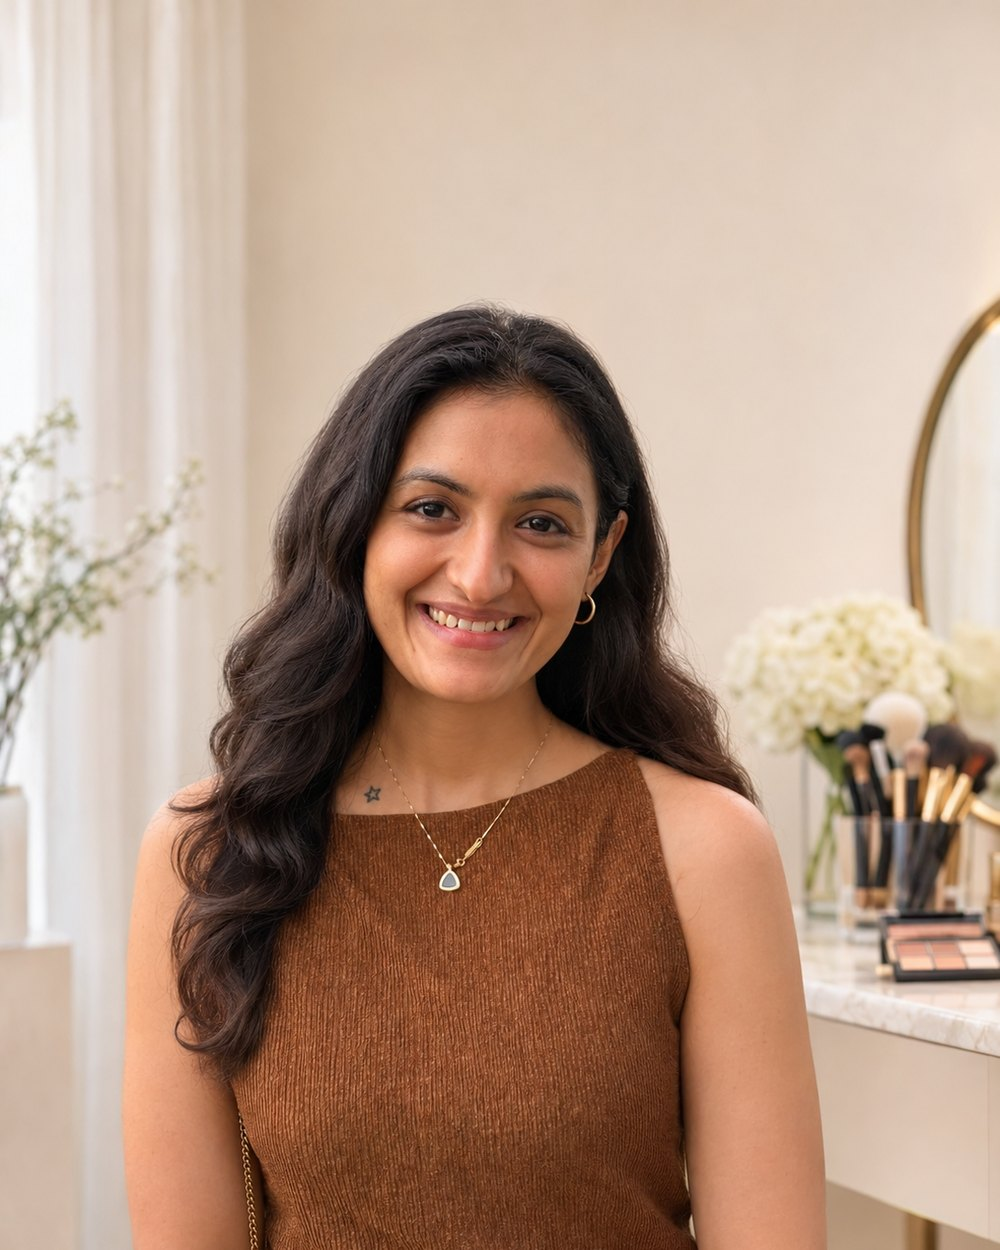
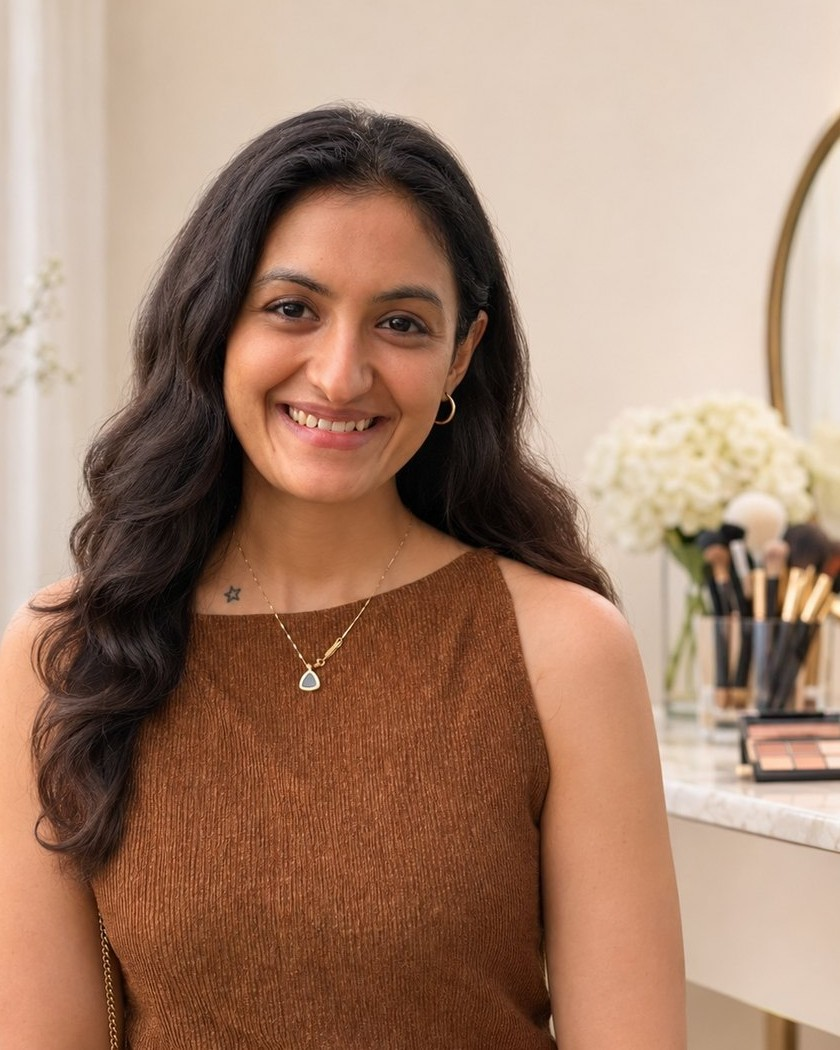
Apply reviewer feedback: white hero button, tighter portrait crop, full-width About button, 'Services' heading, bigger pricing feature, direct contact in CTA band
Claude-Session: https://claude.ai/code/session_017q9V9TUkesaS754kNf9bzS

diff --git a/index.html b/index.html
@@ -52,20 +52,20 @@
     <p>Your Expert Beauty &amp; Makeup Artist</p>
     <div class="actions">
       <a class="btn btn--light" href="/book/">Book an Appointment</a>
-      <a class="btn btn--ghost" style="color:#fff;border-color:#fff" href="#services">Explore Our Services</a>
+      <a class="btn btn--light" href="#services">Explore Our Services</a>
     </div>
   </div>
 </section>
 
 <section id="about" class="section">
   <div class="wrap split">
-    <img class="portrait" src="/assets/khushali-studio.jpg" alt="Khushali, makeup, skincare and henna artist" loading="lazy" width="1000" height="1250">
+    <img class="portrait" src="/assets/khushali-studio.jpg" alt="Khushali, makeup, skincare and henna artist" loading="lazy" width="840" height="1050">
     <div>
       <p class="eyebrow">About</p>
       <h2>About Glam by Khushali</h2>
       <p>Glam by Khushali is a beauty studio dedicated to personalized luxury makeup, professional skincare, and beautiful henna artistry. Every service is tailored to enhance your natural features, so you leave feeling confident, radiant, and completely yourself.</p>
       <p>From timeless bridal looks to occasion-ready glam, each appointment begins with understanding your style, skin, and vision. Whether you are preparing for your wedding day or a special event, Glam by Khushali brings careful attention, artistry, and a polished finish to every detail.</p>
-      <a class="btn btn--ghost" href="/about/">Meet Khushali</a>
+      <a class="btn btn--ghost btn--block" href="/about/">Meet Khushali</a>
     </div>
   </div>
 </section>
@@ -73,7 +73,7 @@
 <section id="services" class="section section--tint">
   <div class="wrap center">
     <p class="eyebrow">Services</p>
-    <h2>Our Services</h2>
+    <h2>Services</h2>
     <p class="lead">Tap a service to see what's included, how it works and examples of the work.</p>
     <div class="cards" style="text-align:left">
       <a class="card" href="/services/makeup/">
@@ -104,22 +104,28 @@
   </div>
 </section>
 
-<section class="section">
+<section class="section price-feature">
   <div class="wrap center">
-    <p class="eyebrow">Simple, transparent pricing</p>
-    <h2>One standard rate: $250 per hour</h2>
-    <a class="btn" href="/pricing/">See Services &amp; Pricing</a>
+    <div class="price-card">
+      <p class="eyebrow">Simple, transparent pricing</p>
+      <p class="price-big"><span>$250</span> per hour</p>
+      <p class="price-sub">One standard rate for every service.</p>
+      <a class="btn" href="/pricing/">See Services &amp; Pricing</a>
+    </div>
   </div>
 </section>
 
 <section class="cta-band">
   <div class="wrap">
     <h2>Ready to book your glam?</h2>
-    <p>Call, text or email, or pick a time online.</p>
+    <p class="cta-phone"><a href="tel:+17327075613">(732) 707-5613</a></p>
+    <p class="cta-email"><a href="mailto:contact@glambykhushali.com">contact@glambykhushali.com</a></p>
     <div class="actions">
-      <a class="btn btn--light" href="/book/">Book an Appointment</a>
-      <a class="btn btn--ghost" style="color:#fff;border-color:#fff" href="/pricing/">View Pricing</a>
+      <a class="btn btn--light" href="tel:+17327075613"><svg viewBox="0 0 24 24" fill="none" stroke="currentColor" stroke-width="1.8" stroke-linecap="round" stroke-linejoin="round" aria-hidden="true"><path d="M22 16.9v3a2 2 0 0 1-2.2 2 19.8 19.8 0 0 1-8.6-3.1 19.5 19.5 0 0 1-6-6A19.8 19.8 0 0 1 2.1 4.2 2 2 0 0 1 4.1 2h3a2 2 0 0 1 2 1.7c.1.9.4 1.8.7 2.7a2 2 0 0 1-.5 2.1L8 9.8a16 16 0 0 0 6 6l1.3-1.3a2 2 0 0 1 2.1-.4c.9.3 1.8.6 2.7.7a2 2 0 0 1 1.7 2z"/></svg>Call</a>
+      <a class="btn btn--light" href="sms:+17327075613"><svg viewBox="0 0 24 24" fill="none" stroke="currentColor" stroke-width="1.8" stroke-linecap="round" stroke-linejoin="round" aria-hidden="true"><path d="M21 15a2 2 0 0 1-2 2H7l-4 4V5a2 2 0 0 1 2-2h14a2 2 0 0 1 2 2z"/></svg>Text</a>
+      <a class="btn btn--light" href="mailto:contact@glambykhushali.com"><svg viewBox="0 0 24 24" fill="none" stroke="currentColor" stroke-width="1.8" stroke-linecap="round" stroke-linejoin="round" aria-hidden="true"><rect x="2" y="4" width="20" height="16" rx="2"/><path d="m22 7-10 6L2 7"/></svg>Email</a>
     </div>
+    <p class="cta-alt">Or <a href="/book/">book online</a></p>
   </div>
 </section>
 </main>

diff --git a/about/index.html b/about/index.html
@@ -47,7 +47,7 @@
 <main>
 <section class="section">
   <div class="wrap split split--top">
-    <img class="portrait" src="/assets/khushali-studio.jpg" alt="Khushali, makeup, skincare and henna artist" width="1000" height="1250">
+    <img class="portrait" src="/assets/khushali-studio.jpg" alt="Khushali, makeup, skincare and henna artist" width="840" height="1050">
     <div>
       <p class="eyebrow">About</p>
       <h1>Meet Khushali</h1>
@@ -60,11 +60,14 @@
 <section class="cta-band">
   <div class="wrap">
     <h2>Ready to book your glam?</h2>
-    <p>Call, text or email, or pick a time online.</p>
+    <p class="cta-phone"><a href="tel:+17327075613">(732) 707-5613</a></p>
+    <p class="cta-email"><a href="mailto:contact@glambykhushali.com">contact@glambykhushali.com</a></p>
     <div class="actions">
-      <a class="btn btn--light" href="/book/">Book an Appointment</a>
-      <a class="btn btn--ghost" style="color:#fff;border-color:#fff" href="/pricing/">View Pricing</a>
+      <a class="btn btn--light" href="tel:+17327075613"><svg viewBox="0 0 24 24" fill="none" stroke="currentColor" stroke-width="1.8" stroke-linecap="round" stroke-linejoin="round" aria-hidden="true"><path d="M22 16.9v3a2 2 0 0 1-2.2 2 19.8 19.8 0 0 1-8.6-3.1 19.5 19.5 0 0 1-6-6A19.8 19.8 0 0 1 2.1 4.2 2 2 0 0 1 4.1 2h3a2 2 0 0 1 2 1.7c.1.9.4 1.8.7 2.7a2 2 0 0 1-.5 2.1L8 9.8a16 16 0 0 0 6 6l1.3-1.3a2 2 0 0 1 2.1-.4c.9.3 1.8.6 2.7.7a2 2 0 0 1 1.7 2z"/></svg>Call</a>
+      <a class="btn btn--light" href="sms:+17327075613"><svg viewBox="0 0 24 24" fill="none" stroke="currentColor" stroke-width="1.8" stroke-linecap="round" stroke-linejoin="round" aria-hidden="true"><path d="M21 15a2 2 0 0 1-2 2H7l-4 4V5a2 2 0 0 1 2-2h14a2 2 0 0 1 2 2z"/></svg>Text</a>
+      <a class="btn btn--light" href="mailto:contact@glambykhushali.com"><svg viewBox="0 0 24 24" fill="none" stroke="currentColor" stroke-width="1.8" stroke-linecap="round" stroke-linejoin="round" aria-hidden="true"><rect x="2" y="4" width="20" height="16" rx="2"/><path d="m22 7-10 6L2 7"/></svg>Email</a>
     </div>
+    <p class="cta-alt">Or <a href="/book/">book online</a></p>
   </div>
 </section>
 </main>

diff --git a/pricing/index.html b/pricing/index.html
@@ -149,11 +149,14 @@
 <section class="cta-band">
   <div class="wrap">
     <h2>Ready to book your glam?</h2>
-    <p>Call, text or email, or pick a time online.</p>
+    <p class="cta-phone"><a href="tel:+17327075613">(732) 707-5613</a></p>
+    <p class="cta-email"><a href="mailto:contact@glambykhushali.com">contact@glambykhushali.com</a></p>
     <div class="actions">
-      <a class="btn btn--light" href="/book/">Book an Appointment</a>
-      <a class="btn btn--ghost" style="color:#fff;border-color:#fff" href="/pricing/">View Pricing</a>
+      <a class="btn btn--light" href="tel:+17327075613"><svg viewBox="0 0 24 24" fill="none" stroke="currentColor" stroke-width="1.8" stroke-linecap="round" stroke-linejoin="round" aria-hidden="true"><path d="M22 16.9v3a2 2 0 0 1-2.2 2 19.8 19.8 0 0 1-8.6-3.1 19.5 19.5 0 0 1-6-6A19.8 19.8 0 0 1 2.1 4.2 2 2 0 0 1 4.1 2h3a2 2 0 0 1 2 1.7c.1.9.4 1.8.7 2.7a2 2 0 0 1-.5 2.1L8 9.8a16 16 0 0 0 6 6l1.3-1.3a2 2 0 0 1 2.1-.4c.9.3 1.8.6 2.7.7a2 2 0 0 1 1.7 2z"/></svg>Call</a>
+      <a class="btn btn--light" href="sms:+17327075613"><svg viewBox="0 0 24 24" fill="none" stroke="currentColor" stroke-width="1.8" stroke-linecap="round" stroke-linejoin="round" aria-hidden="true"><path d="M21 15a2 2 0 0 1-2 2H7l-4 4V5a2 2 0 0 1 2-2h14a2 2 0 0 1 2 2z"/></svg>Text</a>
+      <a class="btn btn--light" href="mailto:contact@glambykhushali.com"><svg viewBox="0 0 24 24" fill="none" stroke="currentColor" stroke-width="1.8" stroke-linecap="round" stroke-linejoin="round" aria-hidden="true"><rect x="2" y="4" width="20" height="16" rx="2"/><path d="m22 7-10 6L2 7"/></svg>Email</a>
     </div>
+    <p class="cta-alt">Or <a href="/book/">book online</a></p>
   </div>
 </section>
 </main>

diff --git a/services/henna/index.html b/services/henna/index.html
@@ -105,11 +105,14 @@
 <section class="cta-band">
   <div class="wrap">
     <h2>Ready to book your glam?</h2>
-    <p>Call, text or email, or pick a time online.</p>
+    <p class="cta-phone"><a href="tel:+17327075613">(732) 707-5613</a></p>
+    <p class="cta-email"><a href="mailto:contact@glambykhushali.com">contact@glambykhushali.com</a></p>
     <div class="actions">
-      <a class="btn btn--light" href="/book/">Book an Appointment</a>
-      <a class="btn btn--ghost" style="color:#fff;border-color:#fff" href="/pricing/">View Pricing</a>
+      <a class="btn btn--light" href="tel:+17327075613"><svg viewBox="0 0 24 24" fill="none" stroke="currentColor" stroke-width="1.8" stroke-linecap="round" stroke-linejoin="round" aria-hidden="true"><path d="M22 16.9v3a2 2 0 0 1-2.2 2 19.8 19.8 0 0 1-8.6-3.1 19.5 19.5 0 0 1-6-6A19.8 19.8 0 0 1 2.1 4.2 2 2 0 0 1 4.1 2h3a2 2 0 0 1 2 1.7c.1.9.4 1.8.7 2.7a2 2 0 0 1-.5 2.1L8 9.8a16 16 0 0 0 6 6l1.3-1.3a2 2 0 0 1 2.1-.4c.9.3 1.8.6 2.7.7a2 2 0 0 1 1.7 2z"/></svg>Call</a>
+      <a class="btn btn--light" href="sms:+17327075613"><svg viewBox="0 0 24 24" fill="none" stroke="currentColor" stroke-width="1.8" stroke-linecap="round" stroke-linejoin="round" aria-hidden="true"><path d="M21 15a2 2 0 0 1-2 2H7l-4 4V5a2 2 0 0 1 2-2h14a2 2 0 0 1 2 2z"/></svg>Text</a>
+      <a class="btn btn--light" href="mailto:contact@glambykhushali.com"><svg viewBox="0 0 24 24" fill="none" stroke="currentColor" stroke-width="1.8" stroke-linecap="round" stroke-linejoin="round" aria-hidden="true"><rect x="2" y="4" width="20" height="16" rx="2"/><path d="m22 7-10 6L2 7"/></svg>Email</a>
     </div>
+    <p class="cta-alt">Or <a href="/book/">book online</a></p>
   </div>
 </section>
 </main>

diff --git a/services/makeup/index.html b/services/makeup/index.html
@@ -105,11 +105,14 @@
 <section class="cta-band">
   <div class="wrap">
     <h2>Ready to book your glam?</h2>
-    <p>Call, text or email, or pick a time online.</p>
+    <p class="cta-phone"><a href="tel:+17327075613">(732) 707-5613</a></p>
+    <p class="cta-email"><a href="mailto:contact@glambykhushali.com">contact@glambykhushali.com</a></p>
     <div class="actions">
-      <a class="btn btn--light" href="/book/">Book an Appointment</a>
-      <a class="btn btn--ghost" style="color:#fff;border-color:#fff" href="/pricing/">View Pricing</a>
+      <a class="btn btn--light" href="tel:+17327075613"><svg viewBox="0 0 24 24" fill="none" stroke="currentColor" stroke-width="1.8" stroke-linecap="round" stroke-linejoin="round" aria-hidden="true"><path d="M22 16.9v3a2 2 0 0 1-2.2 2 19.8 19.8 0 0 1-8.6-3.1 19.5 19.5 0 0 1-6-6A19.8 19.8 0 0 1 2.1 4.2 2 2 0 0 1 4.1 2h3a2 2 0 0 1 2 1.7c.1.9.4 1.8.7 2.7a2 2 0 0 1-.5 2.1L8 9.8a16 16 0 0 0 6 6l1.3-1.3a2 2 0 0 1 2.1-.4c.9.3 1.8.6 2.7.7a2 2 0 0 1 1.7 2z"/></svg>Call</a>
+      <a class="btn btn--light" href="sms:+17327075613"><svg viewBox="0 0 24 24" fill="none" stroke="currentColor" stroke-width="1.8" stroke-linecap="round" stroke-linejoin="round" aria-hidden="true"><path d="M21 15a2 2 0 0 1-2 2H7l-4 4V5a2 2 0 0 1 2-2h14a2 2 0 0 1 2 2z"/></svg>Text</a>
+      <a class="btn btn--light" href="mailto:contact@glambykhushali.com"><svg viewBox="0 0 24 24" fill="none" stroke="currentColor" stroke-width="1.8" stroke-linecap="round" stroke-linejoin="round" aria-hidden="true"><rect x="2" y="4" width="20" height="16" rx="2"/><path d="m22 7-10 6L2 7"/></svg>Email</a>
     </div>
+    <p class="cta-alt">Or <a href="/book/">book online</a></p>
   </div>
 </section>
 </main>

diff --git a/services/skincare/index.html b/services/skincare/index.html
@@ -105,11 +105,14 @@
 <section class="cta-band">
   <div class="wrap">
     <h2>Ready to book your glam?</h2>
-    <p>Call, text or email, or pick a time online.</p>
+    <p class="cta-phone"><a href="tel:+17327075613">(732) 707-5613</a></p>
+    <p class="cta-email"><a href="mailto:contact@glambykhushali.com">contact@glambykhushali.com</a></p>
     <div class="actions">
-      <a class="btn btn--light" href="/book/">Book an Appointment</a>
-      <a class="btn btn--ghost" style="color:#fff;border-color:#fff" href="/pricing/">View Pricing</a>
+      <a class="btn btn--light" href="tel:+17327075613"><svg viewBox="0 0 24 24" fill="none" stroke="currentColor" stroke-width="1.8" stroke-linecap="round" stroke-linejoin="round" aria-hidden="true"><path d="M22 16.9v3a2 2 0 0 1-2.2 2 19.8 19.8 0 0 1-8.6-3.1 19.5 19.5 0 0 1-6-6A19.8 19.8 0 0 1 2.1 4.2 2 2 0 0 1 4.1 2h3a2 2 0 0 1 2 1.7c.1.9.4 1.8.7 2.7a2 2 0 0 1-.5 2.1L8 9.8a16 16 0 0 0 6 6l1.3-1.3a2 2 0 0 1 2.1-.4c.9.3 1.8.6 2.7.7a2 2 0 0 1 1.7 2z"/></svg>Call</a>
+      <a class="btn btn--light" href="sms:+17327075613"><svg viewBox="0 0 24 24" fill="none" stroke="currentColor" stroke-width="1.8" stroke-linecap="round" stroke-linejoin="round" aria-hidden="true"><path d="M21 15a2 2 0 0 1-2 2H7l-4 4V5a2 2 0 0 1 2-2h14a2 2 0 0 1 2 2z"/></svg>Text</a>
+      <a class="btn btn--light" href="mailto:contact@glambykhushali.com"><svg viewBox="0 0 24 24" fill="none" stroke="currentColor" stroke-width="1.8" stroke-linecap="round" stroke-linejoin="round" aria-hidden="true"><rect x="2" y="4" width="20" height="16" rx="2"/><path d="m22 7-10 6L2 7"/></svg>Email</a>
     </div>
+    <p class="cta-alt">Or <a href="/book/">book online</a></p>
   </div>
 </section>
 </main>

diff --git a/assets/site.css b/assets/site.css
@@ -220,3 +220,16 @@ html { scroll-padding-top: 64px; }
 .choose-card .btn { margin-top: auto; }
 .split--top { align-items: start; }
 .split--top h1 { margin-bottom: .6em; }
+
+/* Reviewer edits */
+.btn--block { display: flex; width: 100%; }
+.price-feature { padding: 72px 0; }
+.price-card { background: var(--surface); border: 2px solid var(--accent); border-radius: 22px; max-width: 760px; margin: 0 auto; padding: 56px 24px 52px; box-shadow: 0 18px 50px rgba(64, 40, 20, .12); }
+.price-big { font-family: var(--heading); font-size: clamp(1.6rem, 4vw, 2.4rem); color: var(--ink-soft); margin: .1em 0 .1em; line-height: 1.1; }
+.price-big span { display: block; font-size: clamp(4.5rem, 16vw, 8rem); color: var(--brand); line-height: 1; letter-spacing: -.02em; }
+.price-sub { color: var(--ink-soft); font-size: 1.1rem; margin: .4em 0 1.6em; }
+.cta-band .cta-phone { font-family: var(--heading); font-size: clamp(2rem, 6vw, 3rem); margin: .2em 0 0; opacity: 1; line-height: 1.2; }
+.cta-band .cta-phone a { color: #fff; text-decoration: none; }
+.cta-band .cta-email { margin: 0; opacity: 1; }
+.cta-band .cta-email a, .cta-band .cta-alt a { color: #fff; }
+.cta-band .cta-alt { margin: 1.4em 0 0; font-size: .95rem; }

diff --git a/tools/build.py b/tools/build.py
@@ -299,11 +299,14 @@ def cta_band(title="Ready to book your glam?", text="Call, text or email, or pic
     return f"""<section class="cta-band">
   <div class="wrap">
     <h2>{title}</h2>
-    <p>{text}</p>
+    <p class="cta-phone"><a href="tel:{PHONE_E164}">{PHONE_DISPLAY}</a></p>
+    <p class="cta-email"><a href="mailto:{EMAIL}">{EMAIL}</a></p>
     <div class="actions">
-      <a class="btn btn--light" href="/book/">Book an Appointment</a>
-      <a class="btn btn--ghost" style="color:#fff;border-color:#fff" href="/pricing/">View Pricing</a>
+      <a class="btn btn--light" href="tel:{PHONE_E164}">{ICON['phone']}Call</a>
+      <a class="btn btn--light" href="sms:{PHONE_E164}">{ICON['text']}Text</a>
+      <a class="btn btn--light" href="mailto:{EMAIL}">{ICON['mail']}Email</a>
     </div>
+    <p class="cta-alt">Or <a href="/book/">book online</a></p>
   </div>
 </section>"""
 
@@ -326,20 +329,20 @@ def build_home():
     <p>Your Expert Beauty &amp; Makeup Artist</p>
     <div class="actions">
       <a class="btn btn--light" href="/book/">Book an Appointment</a>
-      <a class="btn btn--ghost" style="color:#fff;border-color:#fff" href="#services">Explore Our Services</a>
+      <a class="btn btn--light" href="#services">Explore Our Services</a>
     </div>
   </div>
 </section>
 
 <section id="about" class="section">
   <div class="wrap split">
-    <img class="portrait" src="/assets/khushali-studio.jpg" alt="Khushali, makeup, skincare and henna artist" loading="lazy" width="1000" height="1250">
+    <img class="portrait" src="/assets/khushali-studio.jpg" alt="Khushali, makeup, skincare and henna artist" loading="lazy" width="840" height="1050">
     <div>
       <p class="eyebrow">About</p>
       <h2>About {SITE}</h2>
       <p>{SITE} is a beauty studio dedicated to personalized luxury makeup, professional skincare, and beautiful henna artistry. Every service is tailored to enhance your natural features, so you leave feeling confident, radiant, and completely yourself.</p>
       <p>From timeless bridal looks to occasion-ready glam, each appointment begins with understanding your style, skin, and vision. Whether you are preparing for your wedding day or a special event, {SITE} brings careful attention, artistry, and a polished finish to every detail.</p>
-      <a class="btn btn--ghost" href="/about/">Meet Khushali</a>
+      <a class="btn btn--ghost btn--block" href="/about/">Meet Khushali</a>
     </div>
   </div>
 </section>
@@ -347,18 +350,21 @@ def build_home():
 <section id="services" class="section section--tint">
   <div class="wrap center">
     <p class="eyebrow">Services</p>
-    <h2>Our Services</h2>
+    <h2>Services</h2>
     <p class="lead">Tap a service to see what's included, how it works and examples of the work.</p>
     <div class="cards" style="text-align:left">{cards}
     </div>
   </div>
 </section>
 
-<section class="section">
+<section class="section price-feature">
   <div class="wrap center">
-    <p class="eyebrow">Simple, transparent pricing</p>
-    <h2>One standard rate: {money(RATE)} per hour</h2>
-    <a class="btn" href="/pricing/">See Services &amp; Pricing</a>
+    <div class="price-card">
+      <p class="eyebrow">Simple, transparent pricing</p>
+      <p class="price-big"><span>{money(RATE)}</span> per hour</p>
+      <p class="price-sub">One standard rate for every service.</p>
+      <a class="btn" href="/pricing/">See Services &amp; Pricing</a>
+    </div>
   </div>
 </section>
 
@@ -614,7 +620,7 @@ def build_about():
     paras = "".join(f"<p>{p}</p>" for p in ABOUT_TEXT)
     body = f"""<section class="section">
   <div class="wrap split split--top">
-    <img class="portrait" src="/assets/khushali-studio.jpg" alt="Khushali, makeup, skincare and henna artist" width="1000" height="1250">
+    <img class="portrait" src="/assets/khushali-studio.jpg" alt="Khushali, makeup, skincare and henna artist" width="840" height="1050">
     <div>
       <p class="eyebrow">About</p>
       <h1>Meet Khushali</h1>
